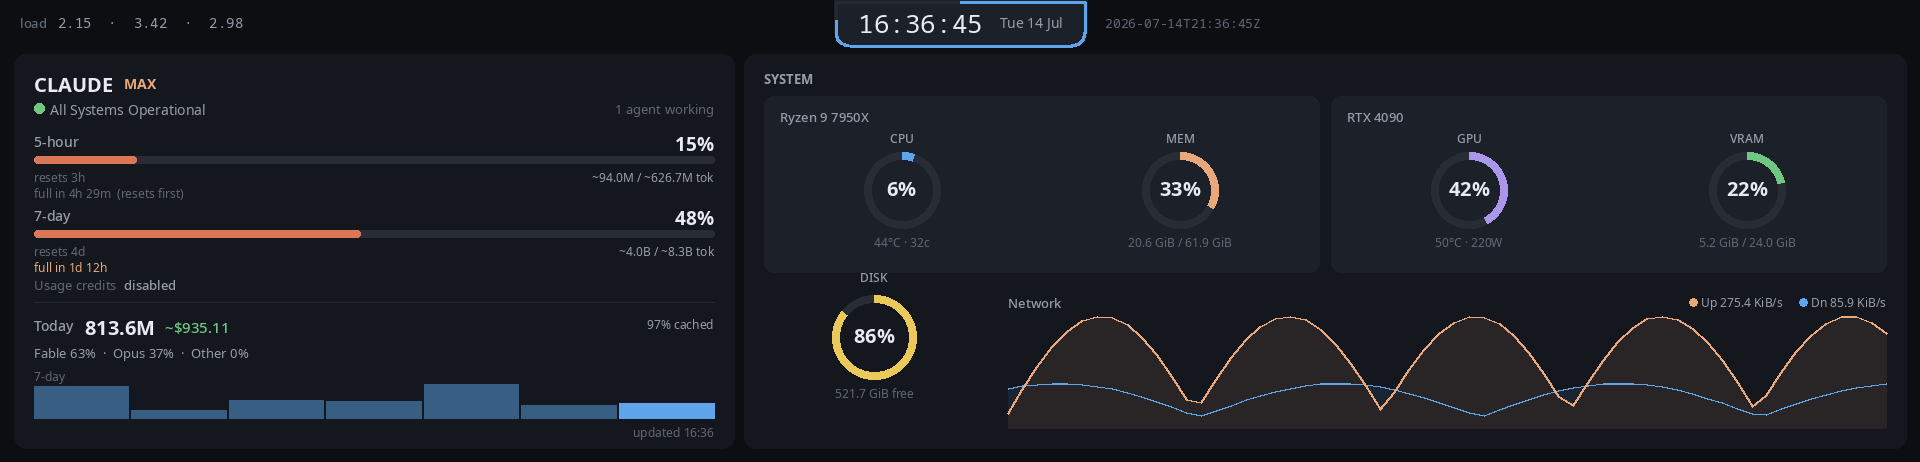
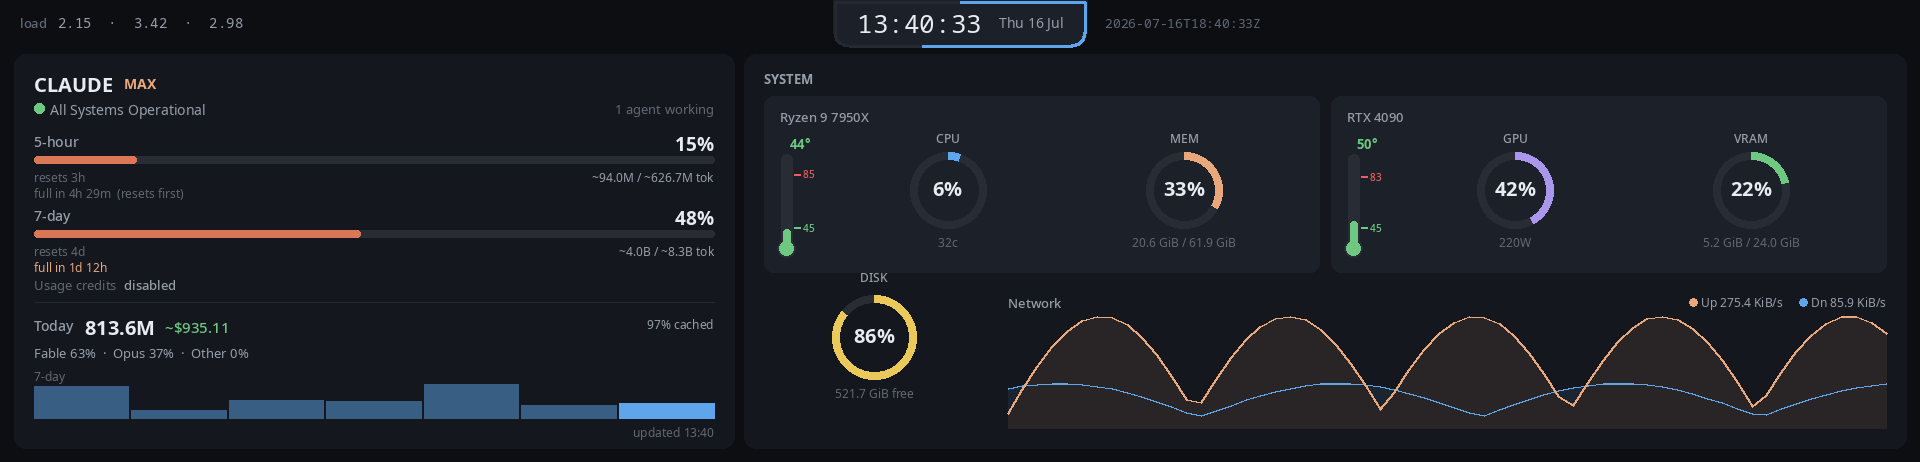
Show CPU/GPU temperature as a color-coded thermometer
The temp used to be a plain "73°C" tacked onto the ring's sub-line. Replace it
with a proper vertical thermometer beside each chip's ring: a glass tube + bulb
with mercury filled to the current reading and smoothly tinted green→yellow→
orange→red by how close it is to that chip's advised max. Two colored ticks
mark the advised operating envelope — a green idle floor and a red throttle
line (CPU 45/85, GPU 45/83, general guidance not per-part datasheet values).

- theme.temp_color(): smooth ramp keyed to advised_max, so one function reads
  correctly for a CPU (85) and a GPU (83).
- widgets.thermometer(): the drawing primitive (tube, bulb, mercury, ticks,
  reading).
- The ring sub-line now carries only cores / power; the ~46px strip doesn't
  shrink the donuts on the ~555px-wide cards.

Also aligns the stale test_config assertion with the committed 300s (free GET)
limits default, which the previous commit left asserting 60.

diff --git a/src/trcc_monitor/render/frame.py b/src/trcc_monitor/render/frame.py
@@ -359,14 +359,14 @@ def _draw_system(d, snaps, now, x, y, width, height, gap):
         card_w = (iw - card_gap) // 2
         _inner_card(d, (ix, card_y, card_w, card_h),
                     _short_cpu(sysd.get("cpu_name", "CPU")),
-                    [_cpu_ring(sysd), _mem_ring(sysd)])
+                    [_cpu_ring(sysd), _mem_ring(sysd)], therm=_cpu_therm(sysd))
         _inner_card(d, (ix + card_w + card_gap, card_y, iw - card_w - card_gap, card_h),
                     _short_gpu(gpud.get("name", "GPU")),
-                    [_gpu_ring(gpud), _vram_ring(gpud)])
+                    [_gpu_ring(gpud), _vram_ring(gpud)], therm=_gpu_therm(gpud))
     else:
         _inner_card(d, (ix, card_y, iw, card_h),
                     _short_cpu(sysd.get("cpu_name", "CPU")),
-                    [_cpu_ring(sysd), _mem_ring(sysd)])
+                    [_cpu_ring(sysd), _mem_ring(sysd)], therm=_cpu_therm(sysd))
 
     # Bottom row: disk ring (left) + network graph (right).
     by = card_y + card_h + 16
@@ -376,18 +376,30 @@ def _draw_system(d, snaps, now, x, y, width, height, gap):
     _net_row(d, sysd, ix + disk_w + 24, by, iw - disk_w - 24, bh)
 
 
-def _inner_card(d, box, title, rings):
+def _inner_card(d, box, title, rings, therm=None):
     x, y, cw, ch = box
     w.panel(d, box, radius=10, fill=theme.PANEL_INNER, outline=None)
     w.text(d, (x + 16, y + 12), _elide(title, cw - 32, "medium", 13),
            weight="medium", size=13, fill=theme.TEXT_DIM)
+
+    # A thermometer for the card's chip (CPU/GPU) sits at the left, leaving the
+    # rest of the width for the donut gauges.
+    ring_x0 = x + 16
+    if therm is not None:
+        temp, scale, advised, tcolor = therm
+        therm_w = 46
+        w.thermometer(d, (x + 14, y + 40, therm_w, ch - 40 - 14),
+                      temp, scale=scale, advised=advised, color=tcolor)
+        ring_x0 = x + 14 + therm_w + 6
+
     n = len(rings)
-    col_w = cw / n
-    r = 38
+    region = (x + cw - 16) - ring_x0
+    col_w = region / n
+    r = min(38, int(col_w / 2 - 8))
     label_y = y + 42
     cy = label_y + 14 + r
     for i, (val, label, color, sub) in enumerate(rings):
-        cx = int(x + col_w * (i + 0.5))
+        cx = int(ring_x0 + col_w * (i + 0.5))
         w.text(d, (cx, label_y), label, weight="medium", size=12,
                fill=theme.TEXT_DIM, anchor="mm")
         w.ring(d, (cx, cy), r, val / 100.0, color=color, width=8)
@@ -418,23 +430,35 @@ def _short_cpu(name: str) -> str:
 
 
 def _cpu_ring(sysd):
-    sub = []
-    if sysd.get("cpu_temp"):
-        sub.append(f"{sysd['cpu_temp']:.0f}°C")
-    if sysd.get("cpu_cores"):
-        sub.append(f"{sysd['cpu_cores']}c")
-    return (float(sysd.get("cpu_percent", 0.0)), "CPU", theme.ACCENT_BLUE,
-            " · ".join(sub))
+    # Temperature now lives in the thermometer beside the ring, so the sub-line
+    # carries only the core count.
+    sub = f"{sysd['cpu_cores']}c" if sysd.get("cpu_cores") else ""
+    return (float(sysd.get("cpu_percent", 0.0)), "CPU", theme.ACCENT_BLUE, sub)
 
 
 def _gpu_ring(gpud):
-    sub = []
-    if gpud.get("temp"):
-        sub.append(f"{gpud['temp']:.0f}°C")
-    if gpud.get("power"):
-        sub.append(f"{gpud['power']:.0f}W")
+    sub = f"{gpud['power']:.0f}W" if gpud.get("power") else ""
     return (float(gpud.get("usage_percent", 0.0)), "GPU", theme.ACCENT_PURPLE,
-            " · ".join(sub))
+            sub)
+
+
+def _cpu_therm(sysd):
+    """Thermometer spec for the CPU card, or None when no sensor is present."""
+    temp = sysd.get("cpu_temp")
+    if not temp:
+        return None
+    amax = theme.CPU_TEMP["advised"][1]
+    return (float(temp), theme.CPU_TEMP["scale"], theme.CPU_TEMP["advised"],
+            theme.temp_color(float(temp), amax))
+
+
+def _gpu_therm(gpud):
+    temp = gpud.get("temp")
+    if not temp:
+        return None
+    amax = theme.GPU_TEMP["advised"][1]
+    return (float(temp), theme.GPU_TEMP["scale"], theme.GPU_TEMP["advised"],
+            theme.temp_color(float(temp), amax))
 
 
 def _mem_ring(sysd):

diff --git a/src/trcc_monitor/render/widgets.py b/src/trcc_monitor/render/widgets.py
@@ -177,6 +177,65 @@ def ring(
         d.arc(box, start=-90, end=-90 + int(360 * frac), fill=color, width=width)
 
 
+def thermometer(
+    d: ImageDraw.ImageDraw,
+    box: tuple[int, int, int, int],
+    temp: float,
+    *,
+    scale: tuple[float, float],
+    advised: tuple[float, float],
+    color: tuple[int, int, int],
+):
+    """A vertical thermometer inside ``box`` (x, y, w, h): a glass tube with a
+    bulb reservoir, mercury filled to ``temp`` and tinted ``color``, colored
+    advised-min/max ticks with labels, and the current reading above the tube.
+    """
+    x, y, _wd, ht = box
+    lo, hi = scale
+    amin, amax = advised
+
+    tube_w = 11
+    bulb_r = 9
+    tube_x = x + 3
+    cx = tube_x + tube_w / 2
+    tube_top = y + 18
+    bulb_cy = y + ht - bulb_r - 1
+    tube_bottom = bulb_cy
+
+    def level_y(t: float) -> float:
+        f = (t - lo) / (hi - lo) if hi > lo else 0.0
+        f = max(0.0, min(1.0, f))
+        return tube_bottom - f * (tube_bottom - tube_top)
+
+    # Glass (empty): tube + bulb in the track color.
+    d.rounded_rectangle([tube_x, tube_top, tube_x + tube_w, tube_bottom],
+                        radius=tube_w / 2, fill=theme.TRACK)
+    d.ellipse([cx - bulb_r, bulb_cy - bulb_r, cx + bulb_r, bulb_cy + bulb_r],
+              fill=theme.TRACK)
+
+    # Mercury: the bulb is always full; a column rises to the current temp.
+    d.ellipse([cx - bulb_r + 2, bulb_cy - bulb_r + 2,
+               cx + bulb_r - 2, bulb_cy + bulb_r - 2], fill=color)
+    top_y = level_y(temp)
+    mw = tube_w - 4
+    if top_y < tube_bottom - 1:
+        d.rounded_rectangle([cx - mw / 2, top_y, cx + mw / 2, tube_bottom],
+                            radius=mw / 2, fill=color)
+
+    # Advised min/max ticks + labels to the right of the tube.
+    tick_x0 = tube_x + tube_w + 2
+    tick_x1 = tick_x0 + 6
+    for val, tcol in ((amin, theme.ACCENT_GREEN), (amax, theme.ACCENT_RED)):
+        ty = level_y(val)
+        d.line([tick_x0, ty, tick_x1, ty], fill=tcol, width=2)
+        text(d, (tick_x1 + 3, ty), f"{val:.0f}", weight="medium", size=10,
+             fill=tcol, anchor="lm")
+
+    # Current reading above the tube, tinted like the mercury.
+    text(d, (tick_x1, y + 8), f"{temp:.0f}°", weight="bold", size=13,
+         fill=color, anchor="mm")
+
+
 def _flat_top_perimeter(box, radius):
     """Ordered points tracing a flat-top / rounded-bottom tab, clockwise from
     the top-centre (so progress reads like a clock hand from 12 o'clock)."""

diff --git a/src/trcc_monitor/render/theme.py b/src/trcc_monitor/render/theme.py
@@ -61,6 +61,40 @@ def util_color(util: float) -> tuple[int, int, int]:
     return ACCENT_GREEN
 
 
+def _lerp(a: tuple[int, int, int], b: tuple[int, int, int], t: float):
+    return tuple(round(a[i] + (b[i] - a[i]) * t) for i in range(3))
+
+
+# Advised operating envelope per chip, in °C: (scale_min, scale_max) is the
+# thermometer's drawn range; (advised_min, advised_max) are the marked ticks —
+# roughly a healthy idle floor and the point where silicon starts to throttle.
+# General guidance, not per-part datasheet values.
+CPU_TEMP = {"scale": (30, 100), "advised": (45, 85)}
+GPU_TEMP = {"scale": (30, 100), "advised": (45, 83)}
+
+
+def temp_color(temp: float, advised_max: float) -> tuple[int, int, int]:
+    """Smooth green→yellow→orange→red ramp keyed to a chip's advised max, so
+    the same function reads correctly for a CPU (85°C) or a GPU (83°C)."""
+    r = temp / advised_max if advised_max else 0.0
+    stops = (
+        (0.00, ACCENT_GREEN),
+        (0.75, ACCENT_GREEN),
+        (0.90, ACCENT_YELLOW),
+        (1.00, ACCENT_ORANGE),
+        (1.12, ACCENT_RED),
+    )
+    if r <= stops[0][0]:
+        return stops[0][1]
+    if r >= stops[-1][0]:
+        return stops[-1][1]
+    for (r0, c0), (r1, c1) in zip(stops, stops[1:]):
+        if r <= r1:
+            t = (r - r0) / (r1 - r0) if r1 > r0 else 0.0
+            return _lerp(c0, c1, t)
+    return stops[-1][1]
+
+
 # ── Fonts ──────────────────────────────────────────────────────────────
 _FONT_FILES = {
     "regular": "NotoSans-Regular.ttf",

diff --git a/tests/test_theme.py b/tests/test_theme.py
@@ -1,0 +1,27 @@
+"""Tests for theme helpers."""
+from trcc_monitor.render import theme
+
+
+def test_temp_color_ramps_green_to_red():
+    amax = 85
+    cool = theme.temp_color(35, amax)     # well under advised max
+    hot = theme.temp_color(100, amax)     # well over advised max
+    assert cool == theme.ACCENT_GREEN
+    assert hot == theme.ACCENT_RED
+
+
+def test_temp_color_cools_monotonically():
+    # The ramp passes through yellow, so the red channel isn't monotonic, but
+    # the green channel should only fall as things heat up — never warm back.
+    amax = 85
+    greens = [theme.temp_color(t, amax)[1] for t in range(30, 101, 5)]
+    assert greens == sorted(greens, reverse=True)
+
+
+def test_temp_color_keys_to_advised_max():
+    # The same absolute temperature reads hotter against a lower advised max,
+    # so a GPU (83) flags earlier than a CPU (85) would at the same temp.
+    t = 84
+    cpu = theme.temp_color(t, 85)     # just under its max
+    gpu = theme.temp_color(t, 83)     # just over its max
+    assert gpu[0] >= cpu[0]           # GPU redder

diff --git a/tests/test_config.py b/tests/test_config.py
@@ -6,7 +6,7 @@ from trcc_monitor import config as config_mod
 
 def test_defaults_when_missing(tmp_path):
     cfg = config_mod.load(tmp_path / "does-not-exist.toml")
-    assert cfg.intervals.limits == 60.0   # 1 min — each poll costs an API call
+    assert cfg.intervals.limits == 300.0   # 5 min — free authenticated GET
     assert cfg.proxy.mode == "env"
     assert cfg.sink.kind == "trccd"
     assert "limits" in cfg.panels